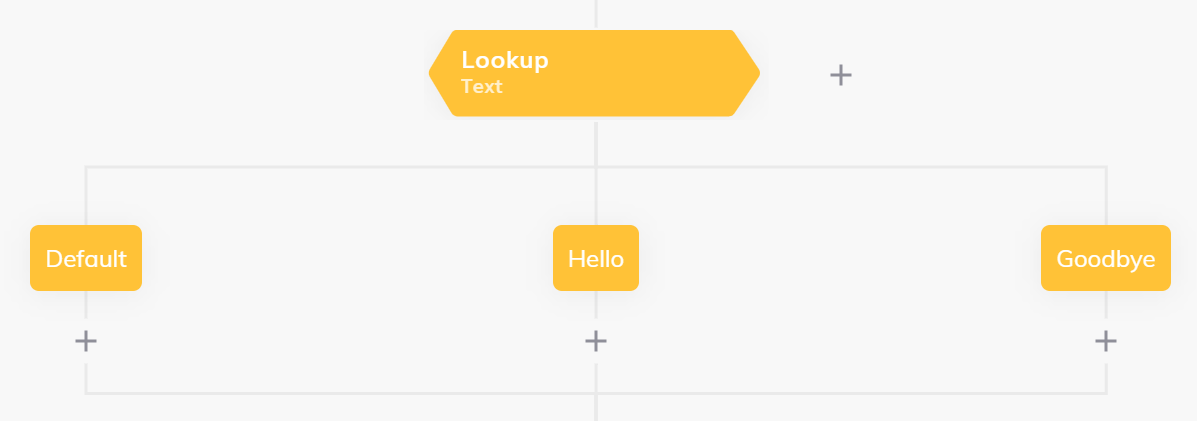
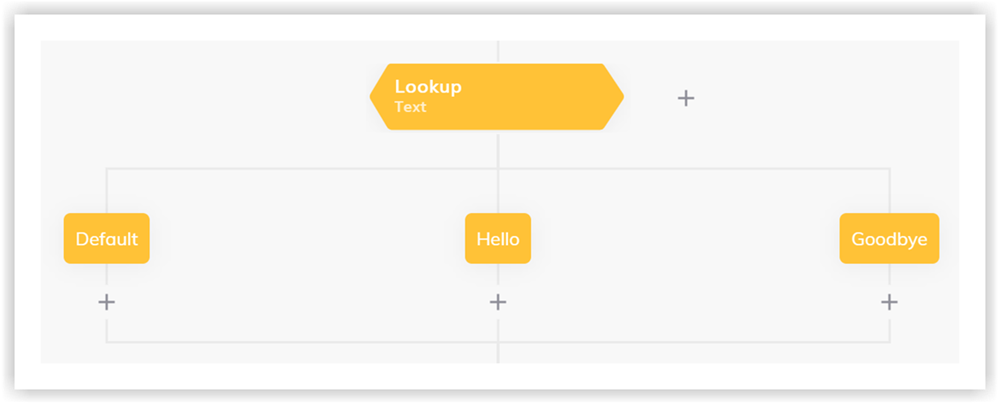
added borders and changes from feedback

diff --git a/docs/en/docs/ai/flow-nodes/logic/lookup.md b/docs/en/docs/ai/flow-nodes/logic/lookup.md
@@ -37,7 +37,7 @@ However, you can also select a level via the "Intent Level" dropdown, if Intents
 In this case only the Intents of the chosen level are selectable in the Intent dropdown menu of the Case Nodes.
 
 <figure>
-  <img class="image-center" src="{{config.site_url}}ai/flow-nodes/images/6b2661d-intent.PNG" width="100%" />
+  <img class="image-center" src="{{config.site_url}}ai/flow-nodes/images/6b2661d-intent.png" width="100%" />
   <figcaption>An intent type Lookup Node with 3 cases.</figcaption>
 </figure>
 
@@ -48,7 +48,7 @@ In this case only the Intents of the chosen level are selectable in the Intent d
 By changing the lookup type to **Text**, the Flow will select a case that matches the value of `input.text`. The case values must manually be written for this type of lookup.
 
 <figure>
-  <img class="image-center" src="{{config.site_url}}ai/flow-nodes/images/lookup-text.PNG" width="100%" />
+  <img class="image-center" src="{{config.site_url}}ai/flow-nodes/images/lookup-text.png" width="100%" />
   <figcaption>A Text type Lookup Node with 2 cases.</figcaption>
 </figure>
 
@@ -56,7 +56,7 @@ By changing the lookup type to **Text**, the Flow will select a case that matche
 By changing the lookup type to **[State]({{config.site_url}}ai/tools/interaction-panel/state/)**, the Flow will select a case that matches the value of `input.state`. The case values must manually be written for this type of lookup.
 
 <figure>
-  <img class="image-center" src="{{config.site_url}}ai/flow-nodes/images/3373c62-state.PNG" width="100%" />
+  <img class="image-center" src="{{config.site_url}}ai/flow-nodes/images/3373c62-state.png" width="100%" />
   <figcaption>A State type Lookup Node with 3 cases.</figcaption>
 </figure>
 
@@ -67,7 +67,7 @@ By changing the lookup type to **[State]({{config.site_url}}ai/tools/interaction
 By changing the lookup type to **Type**, the Flow will select a case that matches the value of `input.type`. The case values must manually be written for this type of lookup.
 
 <figure>
-  <img class="image-center" src="{{config.site_url}}ai/flow-nodes/images/7b68885-type.PNG" width="100%" />
+  <img class="image-center" src="{{config.site_url}}ai/flow-nodes/images/7b68885-type.png" width="100%" />
   <figcaption>A Type Lookup Node with 3 cases.</figcaption>
 </figure>
 
@@ -78,7 +78,7 @@ By changing the lookup type to **Type**, the Flow will select a case that matche
 By changing the lookup type to **Mode**, the Flow will select a case that matches the value of `input.mode`. The case values must manually be written for this type of lookup.
 
 <figure>
-  <img class="image-center" src="{{config.site_url}}ai/flow-nodes/images/2a676e7-mode.PNG" width="100%" />
+  <img class="image-center" src="{{config.site_url}}ai/flow-nodes/images/2a676e7-mode.png" width="100%" />
   <figcaption>A Mode type Lookup Node with 2 cases.</figcaption>
 </figure>
 
@@ -89,7 +89,7 @@ By changing the lookup type to **Mode**, the Flow will select a case that matche
 By changing the lookup type to **Handover Status**, the Flow will select a case that matches the value of `input.handover.status`. The case values must manually be written for this type of lookup.
 
 <figure>
-  <img class="image-center" src="{{config.site_url}}ai/flow-nodes/images/lookup-handover-status.PNG" width="100%" />
+  <img class="image-center" src="{{config.site_url}}ai/flow-nodes/images/lookup-handover-status.png" width="100%" />
   <figcaption>A Handover Status type Lookup Node with 4 cases.</figcaption>
 </figure>
 
@@ -97,12 +97,12 @@ By changing the lookup type to **Handover Status**, the Flow will select a case 
 By changing the lookup type to **CognigyScript**, the Flow will select a case that matches the value of any variable that is entered in the "Operator" field, either by using a *token* or by writing the variable path in *CognigyScript*. This feature makes it possible to change the Flow path based on any variable in the `input`, `context` or `profile`. The case values must manually be written for this type of lookup.
 
 <figure>
-  <img class="image-center" src="{{config.site_url}}ai/flow-nodes/images/fb8d3ae-cognigyScript.PNG" width="100%" />
+  <img class="image-center" src="{{config.site_url}}ai/flow-nodes/images/fb8d3ae-cognigyScript.png" width="100%" />
   <figcaption>Setting the Lookup type to CognigyScript</figcaption>
 </figure>
 
 <figure>
-  <img class="image-center" src="{{config.site_url}}ai/flow-nodes/images/f09cf4a-cognigyScript1.PNG" width="100%" />
+  <img class="image-center" src="{{config.site_url}}ai/flow-nodes/images/f09cf4a-cognigyScript1.png" width="100%" />
   <figcaption>A CognigyScript type Lookup Node with 3 cases based on a profile variable.</figcaption>
 </figure>
 
